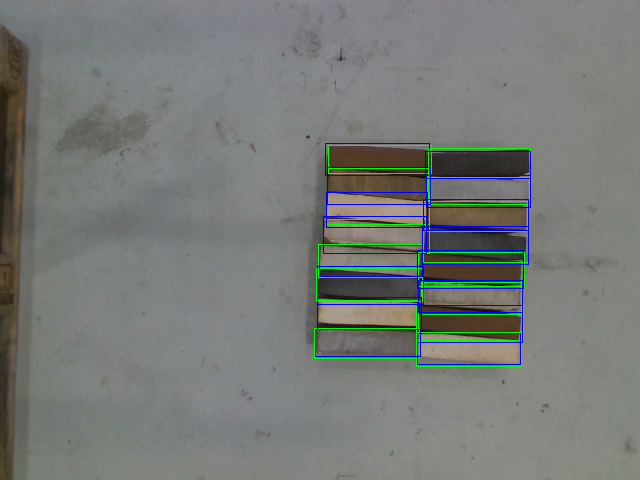
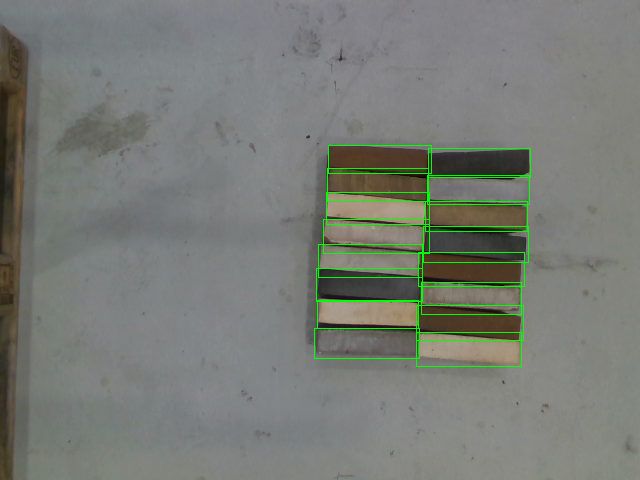
not working

diff --git a/01 Classic Vision/Includes/Evaluator.cpp b/01 Classic Vision/Includes/Evaluator.cpp
@@ -50,7 +50,9 @@ bool Evaluator::evaluate_next_img(double threshold)
 	if (loader.loadNext())
 	{
 		this->detector->detect(loader.img);
-        evaluate(this->evaluate_threshold);
+        std::vector<double> thresholds;
+        thresholds.push_back(this->evaluate_threshold);
+        evaluate_range(thresholds);
 		return true;
 	}
 	else
@@ -98,7 +100,8 @@ double Evaluator::calculate_IoU(cv::Rect rect1, cv::Rect rect2)
 	return (double)(rect1 & rect2).area() / (double)(rect1 | rect2).area();
 }
 
-void Evaluator::evaluate(double threshold)
+//Evaluates detections in one image at one threshold
+void Evaluator::evaluate(double threshold, int* false_neg_out, int* false_pos_out, int* true_pos_out)
 {
     this->false_positive = {};
     this->true_positive = {};
@@ -141,14 +144,30 @@ void Evaluator::evaluate(double threshold)
 
     this->false_positive = predictions;
 
-    int true_pos = this->detector->predictions.size() - predictions.size();
-    int false_pos = predictions.size();
-    int false_neg = annotations.size();
-    save_evaluation(true_pos, false_pos, false_neg);
-    this->total_false_negative += false_neg;
-    this->total_false_positive += false_pos;
-    this->total_true_positive += true_pos;
+    *true_pos_out = this->detector->predictions.size() - predictions.size();
+    *false_pos_out = predictions.size();
+    std::cout << "internal true pos:" << this->detector->predictions.size() - predictions.size() << std::endl;
+    *false_neg_out = annotations.size();
+    save_evaluation(*true_pos_out, *false_pos_out, *false_neg_out);
+    //this->total_false_negative += false_neg;
+    //this->total_false_positive += false_pos;
+    //this->total_true_positive += true_pos;
 }
+
+void Evaluator::evaluate_range(std::vector<double> thresholds)
+{
+    for (int i = 0; i < thresholds.size(); i++)
+    {
+        int false_neg = 0;
+        int false_pos = 0;
+        int true_pos = 0;
+        evaluate(thresholds[i], &false_neg, &false_pos, &true_pos);
+        std::cout << i << " external true pos: " << true_pos << std::endl;
+        //this->total_false_negative_list[i] += false_neg;
+    }
+}
+
+
 
 void Evaluator::save_evaluation(int true_pos, int false_pos, int false_neg)
 {

diff --git a/01 Classic Vision/Includes/Chamfer_brick_detector.cpp b/01 Classic Vision/Includes/Chamfer_brick_detector.cpp
@@ -20,7 +20,7 @@ void Chamfer_brick_detector::detect()
 	this->predictions.clear();
 	this->pred_candidates.clear();
 	compute_chamfer_img();
-	find_rectangle_candidates(2, 100, 110, 3);
+	find_rectangle_candidates(60, 100, 110, 5);
 	//std::cout << this->pred_candidates.size() << std::endl;;
 	//sort list
 	std::sort(this->pred_candidates.begin(), this->pred_candidates.end());
@@ -124,7 +124,7 @@ void Chamfer_brick_detector::find_rectangle_candidates(int angle_steps, float sc
 			//Timer inner_loop("Inner loop");
 			create_template(scale_min + j * scale_res, i * angle_res -90, template_img, tmp_rect);
 
-			cv::matchTemplate(this->chamfer_img, template_img, tmp_matching_space, CV_TM_SQDIFF); // typically 5-10 ms. CV_TM_CCORR sometimes more. Release
+			cv::matchTemplate(this->chamfer_img, template_img, tmp_matching_space, CV_TM_CCORR); // typically 5-10 ms. CV_TM_CCORR sometimes more. Release
 			if (i == angle_steps / 2 + 2 && j == scale_steps / 2)
 			{
 				cv::Mat _tmp_template;
@@ -169,12 +169,13 @@ void Chamfer_brick_detector::apply_IOU_NMS(const std::vector<prediction_candidat
 	std::vector<prediction_candidate> candidates_src_copy(candidates_src);
 
 
-	while (i < int(candidates_src_copy.size())-1)
+	while (i < candidates_src_copy.size()-1)
 	{
 		while (j < candidates_src_copy.size())
 		{
 			if (rotated_rect_IOU(candidates_src_copy[i].rotated_rect, candidates_src_copy[j].rotated_rect) > thresh)
 			{
+				std::cout << rotated_rect_IOU(candidates_src_copy[i].rotated_rect, candidates_src_copy[j].rotated_rect) << std::endl;
 				candidates_src_copy.erase(candidates_src_copy.begin() +  j);
 			}
 			else

diff --git a/01 Classic Vision/Includes/Evaluator.h b/01 Classic Vision/Includes/Evaluator.h
@@ -25,7 +25,8 @@ private:
 	double calculate_IoU(cv::Rect rect1, cv::Rect rect2);
 	float evaluate_threshold;
 	//void print_results_to_csv();
-	void evaluate(double threshold);
+	void evaluate(double threshold, int* false_neg_out, int* false_pos_out, int* true_pos_out);
+	void evaluate_range(std::vector<double> thresholds);
 	void save_evaluation(int true_pos, int false_pos, int false_neg);
 	//std::string folder_path;
 	Data_loader loader;
@@ -36,5 +37,8 @@ private:
 	float total_true_positive;
 	float total_false_positive;
 	float total_false_negative;
+	std::vector<float> total_true_positive_list;
+	std::vector<float> total_false_positive_list;
+	std::vector<float> total_false_negative_list;
 };
 

diff --git a/01 Classic Vision/Baseline_method/main.cpp b/01 Classic Vision/Baseline_method/main.cpp
@@ -30,3 +30,7 @@ int main()
     }
     return 0;
 }
+
+// What we want 
+// for one threshold value, calculate the average f1 score for different thresholds. 
+    // to save time, calculate the whole array of f1 at once.
